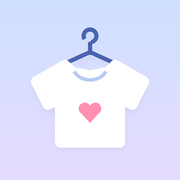
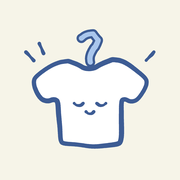
加睡衣类别；涂鸦风格的新桌面图标；首页加上通往另外两个 app 的入口

diff --git a/index.html b/index.html
@@ -72,6 +72,11 @@ button:focus-visible,input:focus-visible,select:focus-visible,textarea:focus-vis
 .chip.cat{border:1.5px solid transparent;background:none;border-radius:12px;padding:6px 2px;display:flex;flex-direction:column;align-items:center;gap:4px;font-size:11px;line-height:1.25;color:var(--fg);text-align:center;overflow-wrap:anywhere}
 .chip.cat .ci{margin:0;width:40px;height:40px}
 .chip.cat[aria-pressed="true"]{border-color:var(--accent);background:var(--accent-soft);color:var(--fg);font-weight:600}
+.hops{display:grid;grid-template-columns:1fr 1fr;gap:8px}
+.hop{display:flex;align-items:center;gap:8px;padding:8px 10px;background:var(--surface);border:1px solid var(--line);border-radius:12px;text-decoration:none;color:var(--fg);min-width:0}
+.hop img{width:34px;height:34px;border-radius:9px;flex:none}
+.hop b{font-size:14px;display:block;line-height:1.3}
+.hop span span{font-size:11px;color:var(--muted);display:block;line-height:1.3}
 .strip{display:flex;gap:10px;overflow-x:auto;padding-bottom:4px;scrollbar-width:thin}
 .strip .card{flex:0 0 108px}
 .grid{display:grid;grid-template-columns:repeat(auto-fill,minmax(104px,1fr));gap:10px}
@@ -186,7 +191,7 @@ const APP_URL = "https://xinyue119-code.github.io/dongyang303/";
 const ZAWU_URL = "https://xinyue119-code.github.io/dongyang303-zawu/";
 const CATS = [
   ["T恤/背心",1.2],["衬衫",1.5],["针织/毛衣",3],["卫衣",3.5],["外套",5],["大衣/羽绒",10],
-  ["裤子",2],["裙子",1.5],["连衣裙",2],["正装/套装",3],["运动服",1.5],["鞋",0],["床品",18],["其他",2]
+  ["裤子",2],["裙子",1.5],["连衣裙",2],["正装/套装",3],["运动服",1.5],["睡衣",2],["鞋",0],["床品",18],["其他",2]
 ];
 const CAT_VOL = Object.fromEntries(CATS);
 const SEASONS = ["春","夏","秋","冬"];
@@ -221,6 +226,9 @@ function defaultReviewSeason(){const m=new Date().getMonth()+1;const cur=curSeas
 
 const modesOf = l => { if(!l) return ["item"]; if(Array.isArray(l.modes)&&l.modes.length) return l.modes; if(l.mode) return [l.mode]; return l.record===false?["list"]:["item"] };
 const hasMode = (l,m) => modesOf(l).includes(m);
+// 三个整理 app 互相跳转：首页最上面放另外两个的入口
+const APPS=[["closet","东阳303","衣服和鞋","https://xinyue119-code.github.io/dongyang303/"],["zw","杂物间","杂物和存货","https://xinyue119-code.github.io/dongyang303-zawu/"],["cos","化妆台","化妆品","https://xinyue119-code.github.io/dongyang303-cosme/"]];
+const hopsHTML = me => `<nav class="hops" aria-label="另外两个整理 app">${APPS.filter(a=>a[0]!==me).map(([,n,sub,u])=>`<a class="hop" href="${u}"><img src="${u}icon-192.png" alt=""><span><b>${n}</b><span>${sub}</span></span></a>`).join("")}</nav>`;
 const catIcon = (c,size="") => {const d=(window.CAT_ICONS||{})[c];return d?`<span class="ci ${size}" style="--h:${d[0]}" aria-hidden="true"><svg viewBox="0 0 24 24">${d[1]}</svg></span>`:""};
 const locById = id => S.locs.find(l=>l.id===id);
 const itemLocs = () => S.locs.filter(l=>hasMode(l,"item"));
@@ -291,6 +299,7 @@ function homeHTML(){
   const clothes=items.filter(i=>!isShoe(i));
   const pending=items.filter(i=>!i.loc||!locById(i.loc)).length;
   let h=`<div class="stack">${header(`衣服 ${clothes.length} 件 · 鞋 ${items.length-clothes.length} 双 · 现在是${cs}季`)}
+   ${hopsHTML("closet")}
    <input class="search big" id="gq" type="search" placeholder="找衣服：开衫、羽绒、H2…" value="${esc(S.gq)}" autocomplete="off">`;
   if(S.gq.trim())return h+searchHTML(S.gq.trim())+`</div>`;
   if(!items.length){
@@ -354,7 +363,7 @@ function mapSVG(){
    ${zone("rack",82,476,118,36,"挂衣架")}
    ${zone("bedin",12,520,190,93,"床下·另一张")}
    ${zone("bedwin",12,619,190,93,"床下·靠窗")}
-   ${zone("longbox",208,520,66,98,"长箱×3")}
+   ${zone("longbox",208,520,66,98,"长箱×2")}
    ${zone("water",208,624,66,56,"水")}
    ${zone("bedside",12,718,60,52,"床头柜")}
    ${zone("smalltable",336,460,134,56,"小桌下")}

diff --git a/sw.js b/sw.js
@@ -1,5 +1,5 @@
 // 东阳303: cache the app shell so it opens fast; data comes from Firestore.
-const CACHE = "dy303-v3";
+const CACHE = "dy303-v4";
 const SHELL = ["./", "index.html", "config.js", "icons.js", "manifest.webmanifest", "icon-192.png", "icon-512.png", "apple-touch-icon.png"];
 self.addEventListener("install", e => { e.waitUntil(caches.open(CACHE).then(c => c.addAll(SHELL)).then(() => self.skipWaiting())); });
 self.addEventListener("activate", e => { e.waitUntil(caches.keys().then(ks => Promise.all(ks.filter(k => k !== CACHE).map(k => caches.delete(k)))).then(() => self.clients.claim())); });

diff --git a/icons.js b/icons.js
@@ -45,6 +45,10 @@ window.CAT_ICONS = {
   140,
   "<path class=\"f\" d=\"M9 4v2.500c0 1-1.500 2-2 3V20h10V9.500c-.5-1-2-2-2-3V4h-1.500c0 1.500-.7 2.500-1.500 2.500S10.500 5.500 10.500 4z\"/><path d=\"M7 13.500h10M7 16h10\"/>"
  ],
+ "睡衣": [
+  255,
+  "<path class=\"f\" d=\"M14.500 4a8 8 0 1 0 6 12.500A9 9 0 0 1 14.500 4z\"/><path d=\"M6 4.500v3M4.500 6h3\"/><path d=\"M19 5.500h.01\"/>"
+ ],
  "鞋": [
   15,
   "<path class=\"f\" d=\"M3 18v-7.500l3.500-.5c.5 1.500 1.500 2.500 3 3l5 1.500c3 .8 6.500 1 6.500 3.500z\"/><path d=\"M3 15.500h13\"/><path d=\"M8 12.500l1.500-1M10.500 13.500l1.500-1\"/>"
